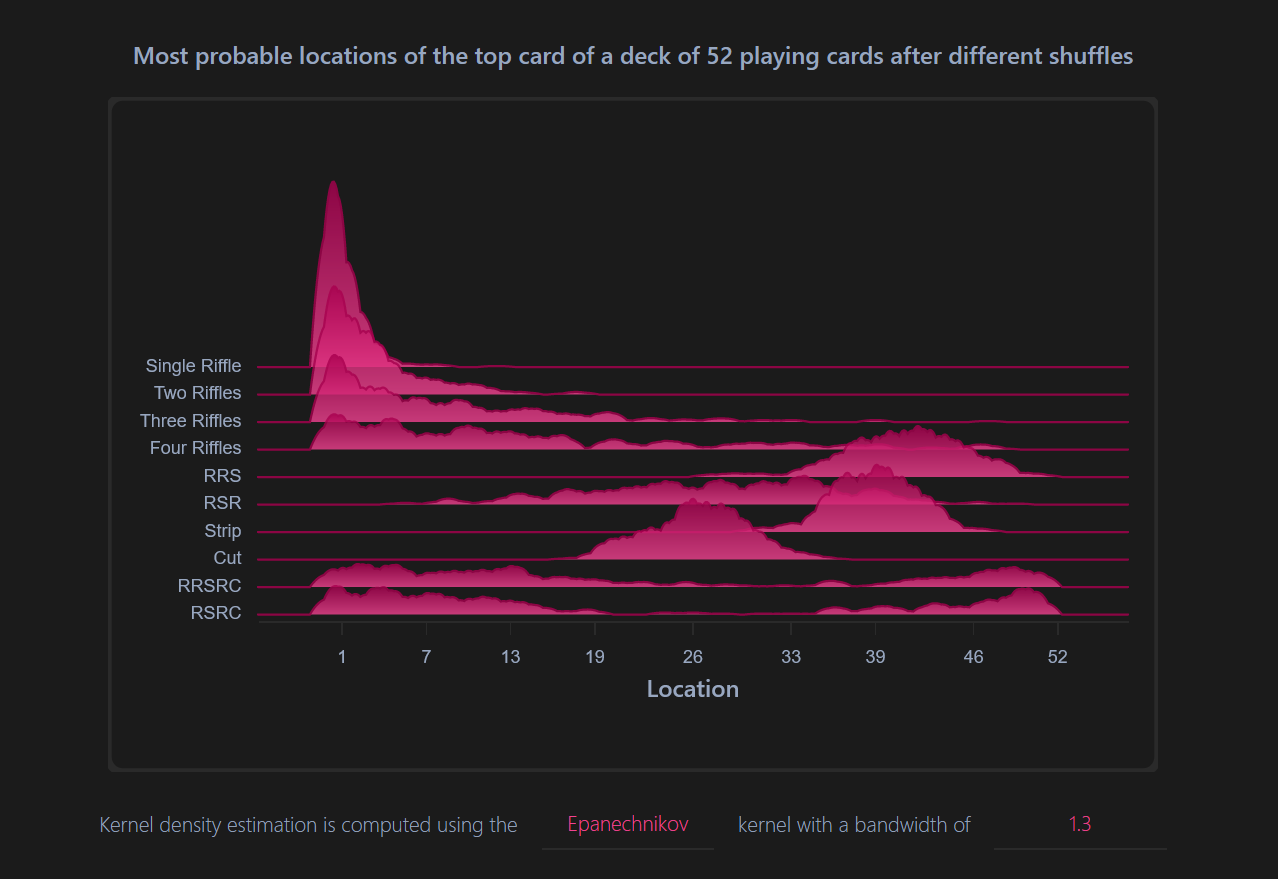
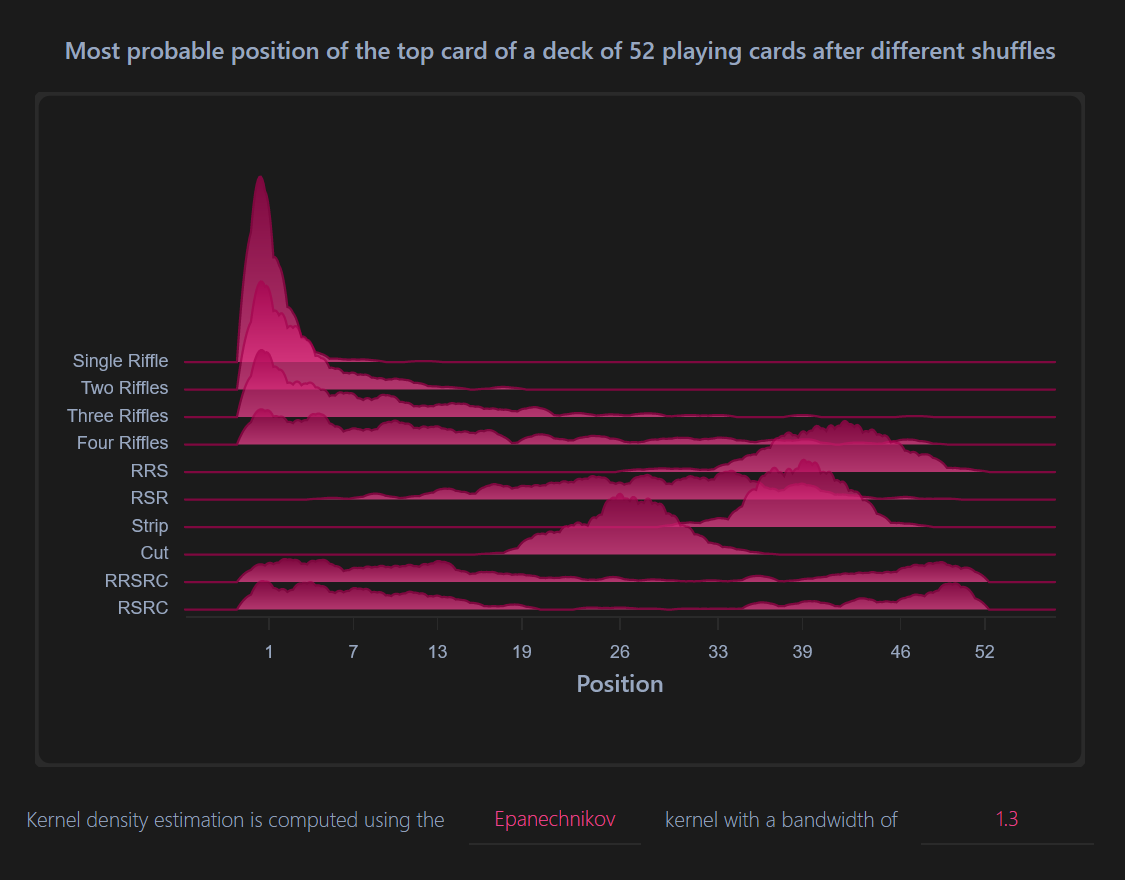
adds nowrap property to text group

diff --git a/src/pages/index.tsx b/src/pages/index.tsx
@@ -26,7 +26,7 @@ export default function Home() {
           size="md"
           fw={600}
         >
-          Most probable locations of the top card of a deck of 52 playing cards
+          Most probable position of the top card of a deck of 52 playing cards
           after different shuffles
         </Text>
         <Suspense fallback={<Loader />}>
@@ -38,7 +38,7 @@ export default function Home() {
             bandwidth={Number(bandwidth)}
           />
         </Suspense>
-        <Group>
+        <Group wrap="nowrap">
           <Text ta="center" size="sm" fw={200} c={colors.gray}>
             Kernel density estimation is computed using the
           </Text>

diff --git a/src/components/XAxis.tsx b/src/components/XAxis.tsx
@@ -11,7 +11,7 @@ const XAxis = ({ scale, top }: XAxisProps) => {
   return (
     <AxisBottom
       tickValues={[1, 7, 13, 19, 26, 33, 39, 46, 52]}
-      label="Location"
+      label="Position"
       top={top}
       scale={scale}
       labelProps={{
